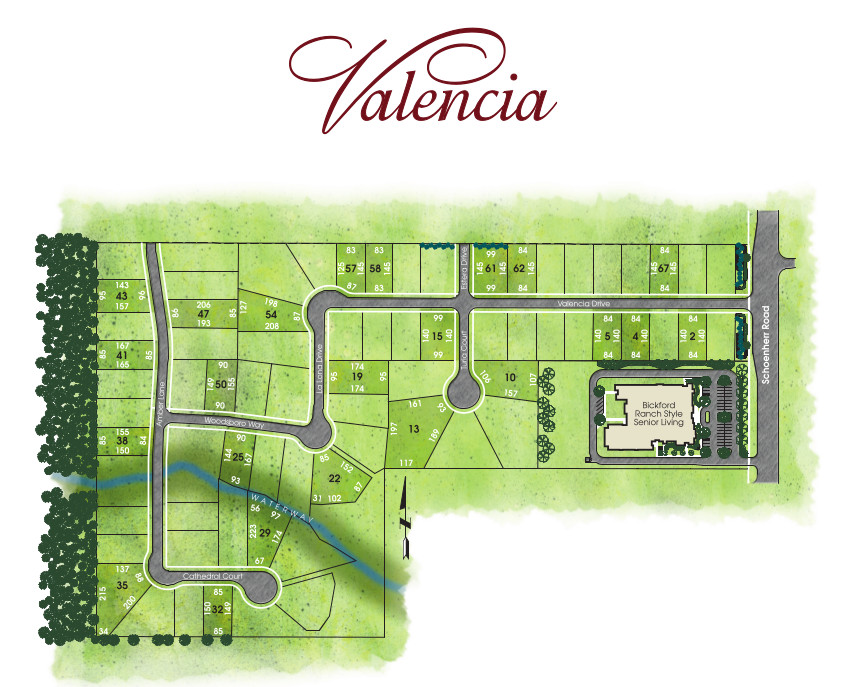
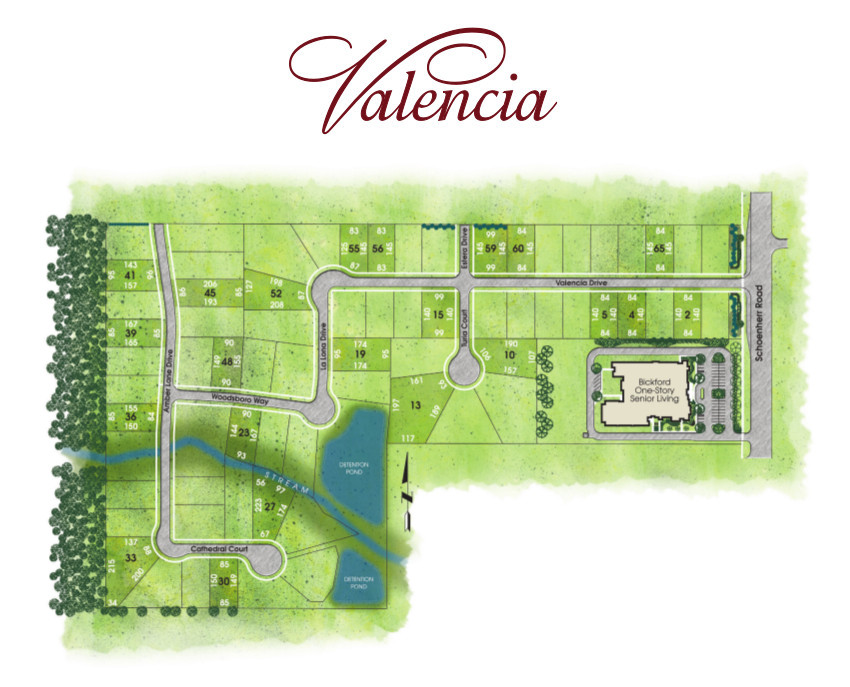
Adding Saddlebrook Community and updating the Valencia Community Map

diff --git a/contactForm.html b/contactForm.html
@@ -23,7 +23,6 @@
 
 <body style="background: transparent">
 
-
 <div id="pjWrapperContactForm_1"style="background: transparent" >
     <div class="container-fluid pjCF-container"style="background: transparent">
         <img id="pjCF_loader_1" src="http://www.mataodesigns.com/DM_Homes_Phase2/Scripts/PHP/EmailFormScript/app/web/img/frontend/loader.gif" />

diff --git a/Scripts/PHP/html/header2.php b/Scripts/PHP/html/header2.php
@@ -25,53 +25,42 @@
                     <ul class="dropdown-menu">
                         <li><a href="communities.php">View All</a></li>
                         <li role="separator" class="divider"></li>
-                        <!-- <li><a href="oaklandHunt.php?oaklandHunt">Oakland Hunt - <span style="color: red">SOLD OUT</span></a></li> -->
                         <li><a href="theVistas.php?Vistas">The Vistas of Rochester Hills</a></li>
-                        <!-- <li><a href="autumnCreek.php?autumnCreek">Autumn Creek</a></li> -->
-                        <!-- <li><a href="theReserve.php?theReserve">The Reserve at Cass Lake</a></li> -->
                         <li><a  href="valencia.php?valencia">Valencia</a></li>
                         <li><a  href="nottingham.php?nottingham">Nottingham Woods</a></li>
                         <li role="separator" class="divider"></li>
                         <li><span style="margin-left: 20px;"><b> Coming Soon</b></span></li>
                         <li><a href="prestonCorners.php?prestonCorners">Preston Corners</a></li>
-
+                        <li><a href="saddlebrookOrchards.php?saddlebrookOrchards">Saddlebrook Orchards</a></li>
                     </ul>
                 </li>
 
                 <div class="visible-xs hidden-sm hidden-md hidden-lg">
                     <hr>
-                    <li style="color: white"><b> Communities</b></li>
-
-                    <li style="line-height: 45px"><a style="padding:15px; color: white" href="communities.php" >View All Communities</a><li>
-                    <!-- <li style="line-height: 45px"><a style="padding:15px; color: white; " href="oaklandHunt.php?oaklandHunt">Oakland Hunt - <span style="color: red">SOLD OUT</span></a></li> -->
-                    <li style="line-height: 45px"><a style="padding:15px; color: white; " href="theVistas.php?Vistas">The Vistas of Rochester Hills</a></li>
-                    <!-- <li style="line-height: 45px"><a style="padding:15px; color: white; " href="autumnCreek.php?autumnCreek">Autumn Creek</a></li> -->
-                    <!-- <li style="line-height: 45px"><a style="padding:15px; color: white; " href="theReserve.php?theReserve">The Reserve at Cass Lake</a></li> -->
-                    <li style="line-height: 45px"><a style="padding:15px; color: white; " href="nottingham.php?nottingham">Nottingham Woods</a></li>
-                    <li style="line-height: 45px"><a style="padding:15px; color: white; " href="valencia.php?valencia">Valencia</a></li>
-                    <li style="line-height: 45px"><a style="padding:15px; color: white; " href="prestonCorners.php?prestonCorners"><b style="color: white;"> Coming Soon: </b>Preston Corners</a></li>
-
+                        <li style="color: white"><b> Communities</b></li>
+                        <li style="line-height: 45px"><a style="padding:15px; color: white" href="communities.php" >View All Communities</a><li>
+                        <li style="line-height: 45px"><a style="padding:15px; color: white; " href="theVistas.php?Vistas">The Vistas of Rochester Hills</a></li>
+                        <li style="line-height: 45px"><a style="padding:15px; color: white; " href="valencia.php?valencia">Valencia</a></li>
+                        <li style="line-height: 45px"><a style="padding:15px; color: white; " href="nottingham.php?nottingham">Nottingham Woods</a></li>
+                        <li style="line-height: 45px"><a style="padding:15px; color: white; " href="prestonCorners.php?prestonCorners"><b style="color: white;"> Coming Soon: </b>Preston Corners</a></li>
+                        <li style="line-height: 45px"><a style="padding:15px; color: white; " href="saddlebrookOrchards.php?saddlebrookOrchards"><b style="color: white;"> Coming Soon: </b>Saddlebrook Orchards</a></li>
                     <hr>
                 </div>
 
                 <li class="hidden-xs visible-sm visible-md visible-lg">
                     <a href="#" class="dropdown-toggle" data-toggle="dropdown" role="button" aria-haspopup="true" aria-expanded="false">Rentals <span class="caret"></span></a>
-                        <ul class="dropdown-menu">
-                            <li><b> Residential</b></li>
-                            <li><a href="pineTree.php">Pine Tree Apts.</a></li>
-                            <li><a href="florenceVilla.php">Florence Villa Townhomes</a></li>
-                            <li><a href="midtownVillage.php">Midtown Village Apts.</a></li>
-                            <li role="separator" class="divider"></li>
-                            <li><b> Commercial</b></li>
-                            <li><a href="marketStreet.php">Market Street</a></li>
-                            <li><a href="secondStreet.php">2nd Street</a></li>
-                            <li><a href="walnut.php">Walnut</a></li>
-
-                        </ul>
-
+                    <ul class="dropdown-menu">
+                        <li><b> Residential</b></li>
+                        <li><a href="pineTree.php">Pine Tree Apts.</a></li>
+                        <li><a href="florenceVilla.php">Florence Villa Townhomes</a></li>
+                        <li><a href="midtownVillage.php">Midtown Village Apts.</a></li>
+                        <li role="separator" class="divider"></li>
+                        <li><b> Commercial</b></li>
+                        <li><a href="marketStreet.php">Market Street</a></li>
+                        <li><a href="secondStreet.php">2nd Street</a></li>
+                        <li><a href="walnut.php">Walnut</a></li>
+                    </ul>
                 </li>
-
-
 
                 <div class="visible-xs hidden-sm hidden-md hidden-lg">
                     <hr>
@@ -85,10 +74,8 @@
                     <li style="line-height: 45px"><a style="padding:15px; color: white; " href="marketStreet.php?marketStreet">Market Street</a></li>
                     <li style="line-height: 45px"><a style="padding:15px; color: white; " href="secondStreet.php?secondStreet">Second Street</a></li>
                     <li style="line-height: 45px"><a style="padding:15px; color: white; " href="walnut.php?marketStreet">Walnut Street</a></li>
-
                     <hr>
                 </div>
-
 
                 <li>
                     <a class="page-scroll" href="offSite.php">Off-Site Building</a>
@@ -99,17 +86,12 @@
                 <li>
                     <a class="page-scroll" href="gallery.php">Gallery</a>
                 </li>
-
                 <li>
                     <a class="page-scroll" href="about.php">About</a>
                 </li>
                 <li>
                     <a class="page-scroll" href="#contact">Contact</a>
                 </li>
-
-
-
-
             </ul>
         </div>
     </div>

diff --git a/saddlebrookOrchards.php b/saddlebrookOrchards.php
@@ -1,0 +1,122 @@
+<?php
+//Page Includes
+$thePage = basename($_SERVER['PHP_SELF']);
+include"Scripts/PHP/customFunctions.php";
+include"Scripts/PHP/theTitle.php";
+?>
+
+<!DOCTYPE html>
+<html>
+<head>
+
+    <!--Meta Tags-->
+
+    <?php
+    include"Scripts/PHP/metaTags.php";
+    printf(metaDescription($thePage));
+    ?>
+
+
+    <!--Style Sheets-->
+    <link href="CSS/bootstrap.css" rel="stylesheet" />
+    <link href="CSS/primary.css" rel="stylesheet" />
+    <link href="https://fonts.googleapis.com/css?family=Noto+Serif:700" rel="stylesheet">
+    <link href="https://fonts.googleapis.com/css?family=Crimson+Text" rel="stylesheet">
+    <link rel="stylesheet" href="font-awesome-4.6.3/css/font-awesome.css">
+    <link href="Scripts/jquery/owl.carousel/owl-carousel/owl.carousel.css" rel="stylesheet">
+    <link href="Scripts/jquery/owl.carousel/owl-carousel/owl.theme.css" rel="stylesheet">
+    <link href="CSS/animate.css" rel="stylesheet"/>
+    <link href="CSS/Custom.css" rel="stylesheet" />
+
+
+    <title><?php printf(theTitle($thePage))?></title>
+
+
+</head>
+<body id="page-top">
+
+
+<!--Header-->
+<div class="container-fluid">
+    <div class="row" style="background: #333333">
+        <?php include"Scripts/PHP/html/header2.php"; ?>
+    </div>
+</div>
+
+
+<!--Main Content-->
+<div class="container-fluid" id="mainContent">
+    <div class="filler"></div>
+
+    <div class="row text-center" style="margin-top: 200px;">
+        <!--<img src="Media/Images/oakland%20hunt%20logo%20_200w.png" alt="Autumn Creek logo" class="img-responsive" style="margin: auto; width: 100px"/>-->
+        <h2>Saddlebrook Orchards</h2>
+        <div class="line2"></div>
+        <br><br>
+    </div>
+
+    <section id="saddlebrookOrchards" style="background-image: url('Media/Images/silverCreek-bg.png'); padding-top: 200px; padding-bottom: 200px;">
+        <img src="Media/Images/largeLogo.png" class="img-responsive" style="margin: auto; width: 200px; height: auto"/>
+       <br>
+        <div class="line"></div>
+        <div class="row">
+            <h1 style="text-align: center; color: white">Coming Soon</h1>
+        </div>
+    </section>
+
+    <section id="aboutAC">
+        <div class="container-fluid">
+            <div class="row text-center">
+                <h2>About</h2>
+                <div class="line2"></div>
+                <br><br>
+                <div class="row">
+                    <div class="col-xs-12 col-md-6" style="padding: 0 8rem;">
+                        <img src="Media/Images/largeLogoBlack.png" class="img-responsive" style="width: 50%; margin: auto"/>
+                        <br>
+                        <p class="text-left">
+                           Located on West Auburn Road between Crooks and Livernois Road, this ten lot community offers large lots,
+                           multiple common spaces and close to shopping and restaurants.
+                        </p>
+                    </div>
+                    <div class="col-xs-12 col-md-6 text-center">
+                        <img src="Media\Images\SaddlebrookOrchards/sitemap.jpg" class="img-responsive" style="margin: auto"/>
+                    </div>
+                </div>
+            </div>
+        </div>
+    </section>
+    <!--End Main Content-->
+</div>
+
+<!--Footer-->
+<div class="container-fluid" style="padding-left: 0px; padding-right: 0px;">
+    <?php include"Scripts/PHP/html/footer.php"; ?>
+</div>
+
+
+<!--Model Modals-->
+<?php include"Scripts/PHP/ModelModals.php"?>
+
+<!--Javascript-->
+<script src="Scripts/jquery/jquery-1.9.1.js"></script>
+<script src="Scripts/js/bootstrap.js"></script>
+<script src="Scripts/jquery/classie.js"></script>
+<script src="Scripts/jquery/jquery.easing.js"></script>
+<script type="text/javascript" src="Scripts/jquery/retinajs/dist/retina.min.js"></script>
+<!--[if lt IE 9]>
+<script src="https://oss.maxcdn.com/libs/html5shiv/3.7.0/html5shiv.js"></script>
+<script src="https://oss.maxcdn.com/libs/respond.js/1.4.2/respond.min.js"></script>
+<![endif]-->
+
+<!--Contact Form Scripts-->
+<script src="js/contact_me.js"></script>
+<script src="js/jqBootstrapValidation.js"></script>
+<script src="Scripts/jquery/owl.carousel/owl-carousel/owl.carousel.js"></script>
+<script src="Scripts/jquery/Custom.js"></script>
+
+</body>
+</html>
+
+
+

diff --git a/communities.php b/communities.php
@@ -129,7 +129,7 @@
 
                     <!--Community 4-->
                     <div id="casslakeListing" class="communityListingContainer">
-                        <h3>The Vistas of Rochester Hills</h3>
+                        <h3>The Vistas of Rochester Hills <span style="color: silver; font-size: .8em; font-style: italic">SOLD OUT</span></h3>
                         <div class="row" style="height: 300px;">
                             <div class="col-xs-12 col-md-5" style="height: 100%;">
                                 <img src="Media/Images/Vistas%20Logo,%20Burgundy_Header.png" class="img-responsive" />
@@ -150,7 +150,7 @@
                 <div class="col-xs-12 col-md-6">
                     <!--Community 5-->
                     <div id="nottinghamListing" class="communityListingContainer">
-                        <h3>Nottingham Woods <span style="color: silver; font-size: .8em; font-style: italic">Coming Fall of 2017</span></h3>
+                        <h3>Nottingham Woods</h3>
                         <div class="row" style="height: 300px;">
                             <div class="col-xs-12 col-md-5" style="height: 100%;">
                                 <img src="Media/Images/largeLogo.png" class="img-responsive" />
@@ -173,7 +173,7 @@
                     <div class="col-xs-12 col-md-6">
                    <!--Community 6-->
                     <div id="valenciaListing" class="communityListingContainer">
-                        <h3>Valencia <span style="color: silver; font-size: .8em; font-style: italic">Coming Fall of 2017</span></h3>
+                        <h3>Valencia</h3>
                         <div class="row" style="height: 300px;">
                             <div class="col-xs-12 col-md-5" style="height: 100%;">
                                 <img src="Media/Images/largeLogo.png" class="img-responsive" />
@@ -196,7 +196,7 @@
                 <div class="col-xs-12 col-md-6">
                     <!--Community 7-->
                     <div id="silverCreekListing" class="communityListingContainer">
-                        <h3>Preston Corners <span style="color: silver; font-size: .8em; font-style: italic">Coming in 2020</span></h3>
+                        <h3>Preston Corners <span style="color: silver; font-size: .8em; font-style: italic">Coming in 2021</span></h3>
                         <div class="row" style="height: 300px;">
                             <div class="col-xs-12 col-md-5" style="height: 100%;">
                                 <img src="Media/Images/largeLogo.png" class="img-responsive" />
@@ -214,6 +214,26 @@
                         </div>
                     </div>
                 </div>
+
+                <div class="col-xs-12 col-md-6">
+                    <!--Community 8-->
+                    <div id="silverCreekListing" class="communityListingContainer">
+                        <h3>Saddlebrook Orchards <span style="color: silver; font-size: .8em; font-style: italic">Coming Soon</span></h3>
+                        <div class="row" style="height: 300px;">
+                            <div class="col-xs-12 col-md-5" style="height: 100%;">
+                                <img src="Media/Images/largeLogo.png" class="img-responsive" />
+                                    <a href="saddlebrookOrchards.php" class="listingsButton btn btn-outline-light btn-lg">Learn More</a>
+                            </div>
+                            <div class="hidden-xs col-md-7">
+                                <p>
+                                    Located on West Auburn Road between Crooks and Livernois Road, this ten lot community offers large lots,
+                                    multiple common spaces and close to shopping and restaurants.
+                                </p>
+                            </div>
+                        </div>
+                    </div>
+                </div>
+
             </div>
         </div>
         </section>

diff --git a/Scripts/PHP/html/header.php b/Scripts/PHP/html/header.php
@@ -25,32 +25,25 @@
                     <ul class="dropdown-menu">
                         <li><a href="communities.php">View All</a></li>
                         <li role="separator" class="divider"></li>
-                        <!-- <li><a href="oaklandHunt.php?oaklandHunt">Oakland Hunt - <span style="color: red">SOLD OUT</span></a></li> -->
                         <li><a href="theVistas.php?Vistas">The Vistas of Rochester Hills</a></li>
-                        <!-- <li><a href="autumnCreek.php?autumnCreek">Autumn Creek</a></li> -->
-                        <!-- <li><a href="theReserve.php?theReserve">The Reserve at Cass Lake</a></li> -->
                         <li><a  href="valencia.php?valencia">Valencia</a></li>
                         <li><a  href="nottingham.php?nottingham">Nottingham Woods</a></li>
                         <li role="separator" class="divider"></li>
                         <li><span style="margin-left: 20px;"><b> Coming Soon</b></span></li>
                         <li><a href="prestonCorners.php?prestonCorners">Preston Corners</a></li>
-
+                        <li><a href="saddlebrookOrchards.php?saddlebrookOrchards">Saddlebrook Orchards</a></li>
                     </ul>
                 </li>
 
                 <div class="visible-xs hidden-sm hidden-md hidden-lg">
-                        <hr>
-                            <li style="color: white"><b> Communities</b></li>
-
-                            <li style="line-height: 45px"><a style="padding:15px; color: white" href="communities.php" >View All Communities</a><li>
-                            <!-- <li style="line-height: 45px"><a style="padding:15px; color: white; " href="oaklandHunt.php?oaklandHunt">Oakland Hunt - <span style="color: red">SOLD OUT</span></a></li> -->
-                            <li style="line-height: 45px"><a style="padding:15px; color: white; " href="theVistas.php?Vistas">The Vistas of Rochester Hills</a></li>
-                            <!-- <li style="line-height: 45px"><a style="padding:15px; color: white; " href="autumnCreek.php?autumnCreek">Autumn Creek</a></li> -->
-                            <!-- <li style="line-height: 45px"><a style="padding:15px; color: white; " href="theReserve.php?theReserve">The Reserve at Cass Lake</a></li> -->
-                            <li style="line-height: 45px"><a style="padding:15px; color: white; " href="valencia.php?valencia">Valencia</a></li>
-                            <li style="line-height: 45px"><a style="padding:15px; color: white; " href="nottingham.php?nottingham">Nottingham Woods</a></li>
-                    <li style="line-height: 45px"><a style="padding:15px; color: white; " href="prestonCorners.php?prestonCorners"><b style="color: white;"> Coming Soon: </b>Preston Corners</a></li>
-
+                    <hr>
+                        <li style="color: white"><b> Communities</b></li>
+                        <li style="line-height: 45px"><a style="padding:15px; color: white" href="communities.php" >View All Communities</a><li>
+                        <li style="line-height: 45px"><a style="padding:15px; color: white; " href="theVistas.php?Vistas">The Vistas of Rochester Hills</a></li>
+                        <li style="line-height: 45px"><a style="padding:15px; color: white; " href="valencia.php?valencia">Valencia</a></li>
+                        <li style="line-height: 45px"><a style="padding:15px; color: white; " href="nottingham.php?nottingham">Nottingham Woods</a></li>
+                        <li style="line-height: 45px"><a style="padding:15px; color: white; " href="prestonCorners.php?prestonCorners"><b style="color: white;"> Coming Soon: </b>Preston Corners</a></li>
+                        <li style="line-height: 45px"><a style="padding:15px; color: white; " href="saddlebrookOrchards.php?saddlebrookOrchards"><b style="color: white;"> Coming Soon: </b>Saddlebrook Orchards</a></li>
                     <hr>
                 </div>
 
